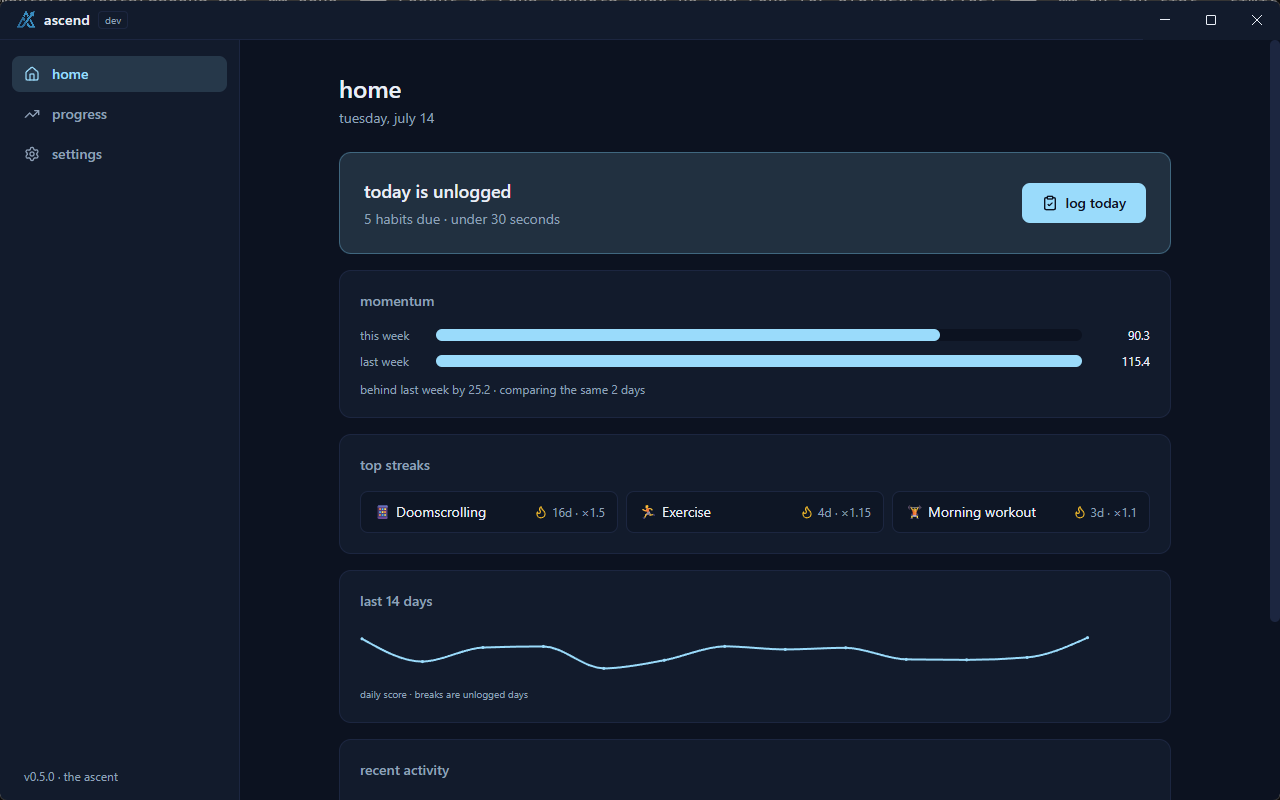
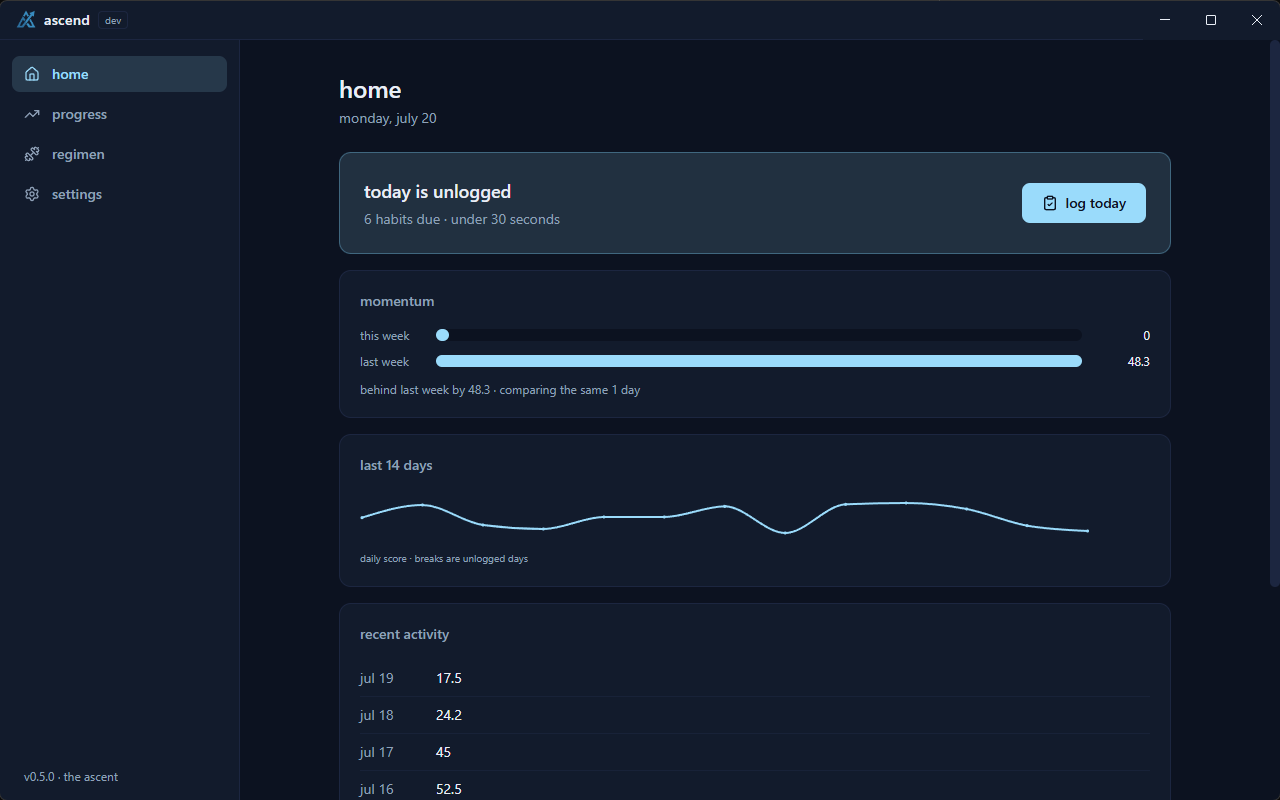
docs: sync from v0.6.0

diff --git a/README.md b/README.md
@@ -17,22 +17,43 @@
 |---|---|
 | ![home screen with momentum, streaks, and a 14-day sparkline](docs/screenshots/home.png) | ![progress tracker with stat tiles and the cumulative ascent chart](docs/screenshots/progress.png) |
 
-![settings with theme variants, behavior, and data tools](docs/screenshots/settings.png)
+| regimen | body |
+|---|---|
+| ![regimen dashboard with insights and the five areas](docs/screenshots/regimen.png) | ![body screen with derived composition and energy stats](docs/screenshots/body.png) |
+
+| workouts | settings |
+|---|---|
+| ![workouts with a progression chart and the weekly muscle coverage map](docs/screenshots/workouts.png) | ![settings with theme variants, behavior, and data tools](docs/screenshots/settings.png) |
 
 ## features
 
+### habits
+
 - weighted habits with per-day schedules: yes/no, quantity, duration, on time, and penalty types
-- on time habits log a day as on time, late, or missed, with an optional target time; penalty habits track things to avoid, where a slip costs points and clean days build a streak
+- on time habits log a day as on time, late, or missed, with an optional target time; penalty habits track things to avoid, where a relapse costs the habit's full weight and clean days build a streak
 - daily logging in under 30 seconds, with a backfill window for missed days
-- a pure scoring engine: streak multipliers, penalties for logged misses, partial credit, and effective-dated parameter changes (history is never rescored)
+- a pure scoring engine: optional streak multipliers, penalties for logged misses, partial credit, and effective-dated parameter changes (history is never rescored)
 - charts that draw your climb: cumulative ascent line, daily bars, calendar heatmaps with day numbers
 - a home screen with momentum vs last week, top streaks, and a 14-day sparkline
+
+### regimen
+
+- body: weight and measurements with a trend chart, plus estimates from an optional profile (resting burn, daily burn, suggested calories and protein, body fat, lean mass, ffmi, bmi, waist-to-height), each labeled with its error range
+- weight goals with the rate they need, a projection line, on or behind pace, and a warning when a goal or a suggested intake asks for too much
+- workouts: sessions of sets per exercise, progression charts with prs, a muscle map per exercise and session, and weekly coverage shaded by sets
+- nutrition: full macros against optional targets, a 7-day rolling average, a macros-vs-calories cross-check, one-click presets for the foods you log often, and a chart of intake against your weight trend
+- routines: am and pm checklists with per-step weekday schedules, adherence, streaks, starter templates, check-all with undo, and optional reminders
+- sleep: bedtime, wake time, and quality, with a duration chart against your target and a bedtime consistency number
+- insights: at most three short observations at a time, dismissible, and silent until there is enough logged data to mean anything
+
+### everywhere
+
 - three dark themes (midnight, graphite, void) and a customizable accent color
 - a comfortable/compact density that scales controls, spacing, and charts
 - fully keyboard-operable controls throughout
 - integrated window chrome: a themed header with a drag region replaces the native title bar
 - json export and import, daily startup backups with one-click restore
-- archived habits can be restored, or deleted forever behind a type-to-confirm step
+- archived items can be restored; archived habits can also be deleted forever behind a type-to-confirm step
 - an "erase everything" flow behind a type-to-confirm step, with an automatic backup first
 - local reminders and launch-at-startup, no network anywhere
 
@@ -47,9 +68,10 @@ macos and linux installers are on the roadmap.
 - 100% local: no cloud, no telemetry, no accounts, no network calls
 - your data lives in a single sqlite database at `%APPDATA%/ascend/ascend.db`
 - a daily snapshot backup is written on launch (newest 7 kept), with extra snapshots before any import, restore, delete, or erase
-- full json export and import from settings > data
-- archiving a habit keeps its history in your stats, and it can be restored from settings > data
+- full json export and import from settings > data, covering habits, logs, and everything in the regimen
+- archiving keeps history: archived habits, exercises, routines, routine steps, and food presets all live in settings > data and can be restored
 - exactly two flows hard-delete data, both behind a type-to-confirm step and an automatic backup: "erase everything", and deleting an archived habit forever (which removes its logs and recomputes historical scores)
+- the health estimates are computed on your machine from standard formulas and labeled with their error ranges. no food or exercise database is bundled or fetched
 
 ## roadmap
 

diff --git a/FAQ.md b/FAQ.md
@@ -12,6 +12,14 @@ a snapshot of the database is written every day on launch, and the newest 7 are 
 
 archive it first (manage habits), then restore it or delete it forever from settings > data. deleting forever removes the habit and all of its logs, recomputes historical scores, and writes a backup snapshot first.
 
+## what about exercises, routines, and presets?
+
+they archive the same way and are listed in settings > data, grouped by kind, where you can restore them. archiving a routine keeps its history and only takes it off the daily checklist. these have no delete-forever step on purpose: the only two flows that permanently remove data are "erase everything" and deleting an archived habit.
+
+## where do the body-fat and calorie numbers come from?
+
+standard published formulas, computed on your machine from what you enter: mifflin-st jeor for resting burn, an activity multiplier for daily burn, and the us navy tape method for body fat. they are estimates, labeled with their error ranges in the app (the tape method is roughly plus or minus 3 to 4 points), and they are meant as trend lines, not verdicts. nothing is fetched, and no food or exercise database is bundled.
+
 ## is there telemetry?
 
 no. no analytics, no crash reporting, no accounts, no network calls of any kind.